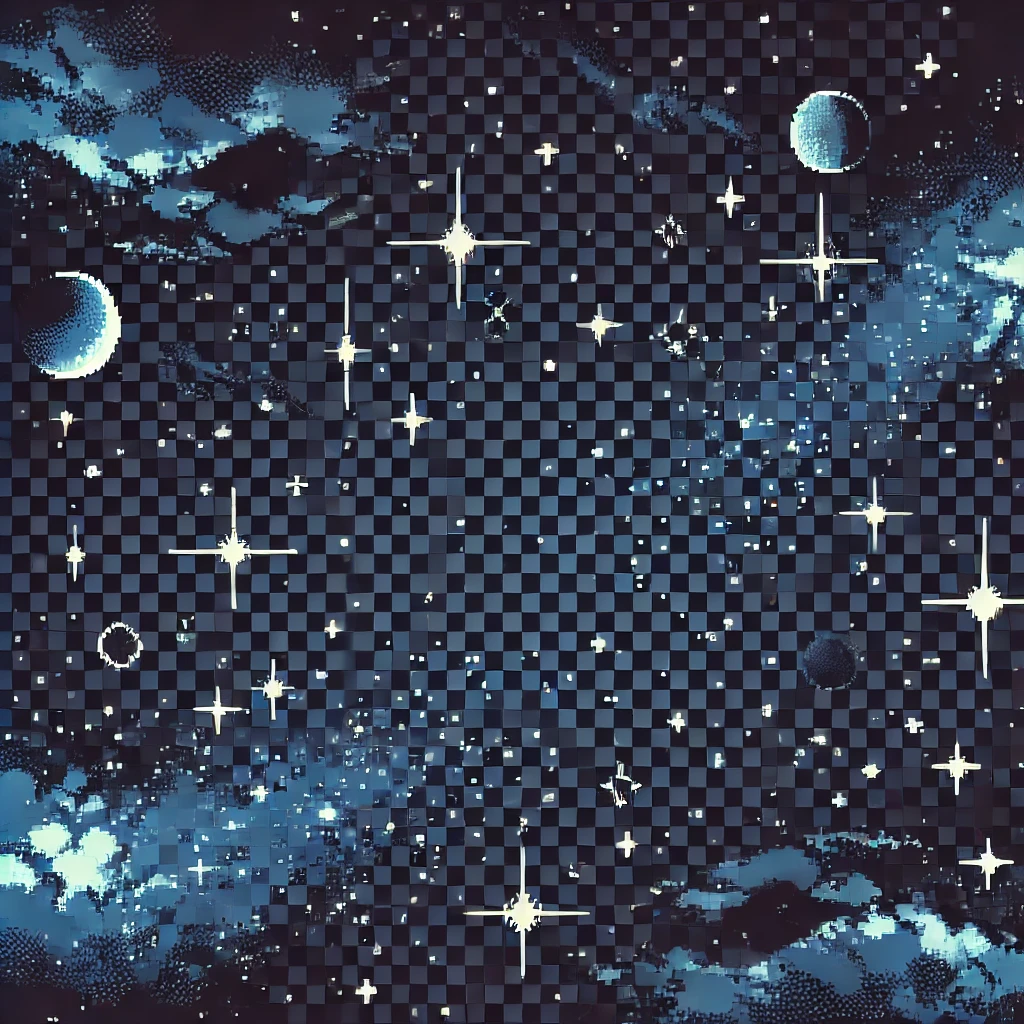
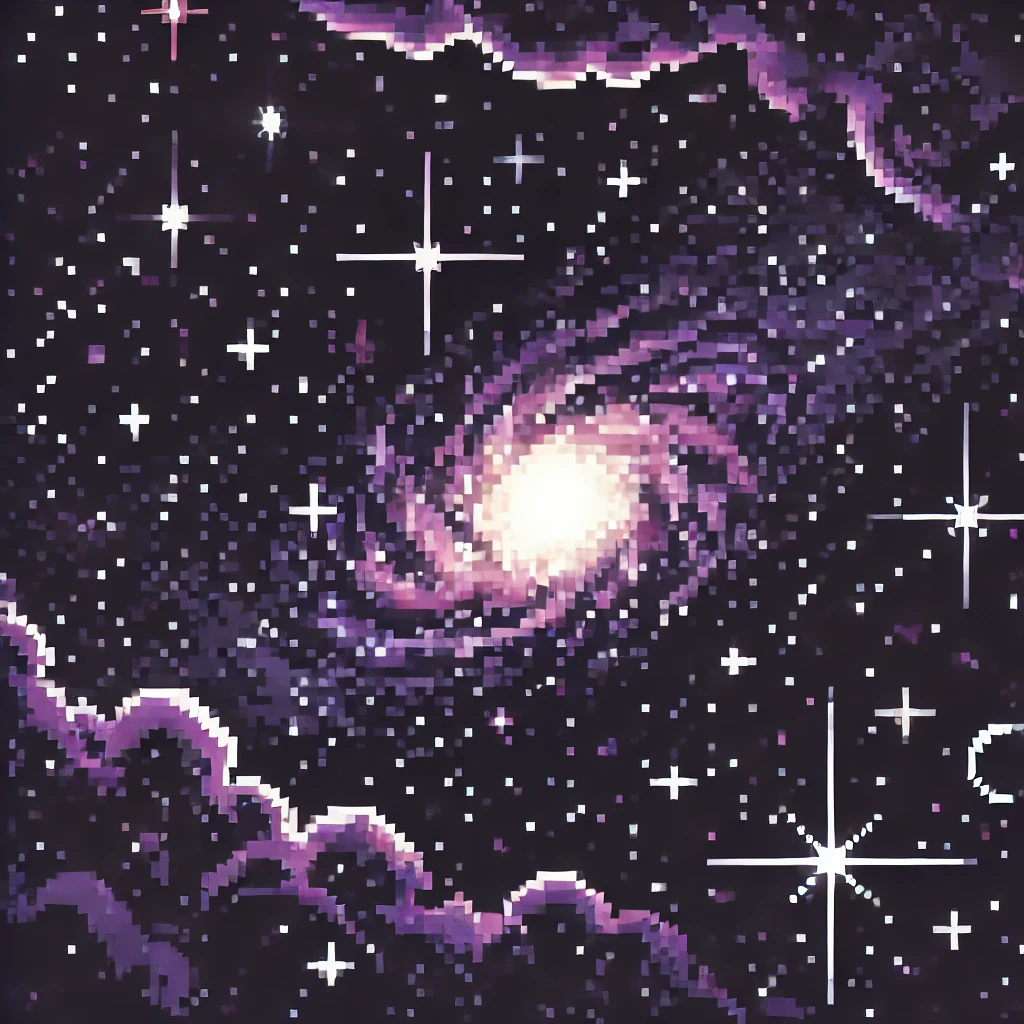
Modificaciones:
Ahora los meteoritos colisionan con el jugador quitan una vida, se resta corazon por pantalla que representa la vida y suena sonido de damage.ogg.
Tambien se cambio el fondo de juego para mejor visual y el de game over por estetica.
Meteorito pequeno se detruye con 1 misil, meteorito mediano con 2 misiles y el meteorito grande con 3 misiles.
El jugado puede moverse con las flechas como con w,a,s,d.

diff --git a/core/src/main/java/com/spacenav2024/screens/GameScreen.java b/core/src/main/java/com/spacenav2024/screens/GameScreen.java
@@ -55,29 +55,26 @@ public class GameScreen implements Screen {
         this.font.getData().setScale(2);
         this.font.setColor(1, 1, 1, 1);
 
-        // Inicializar texturas y jugador
         this.texturaJugador = new Texture("nave.png");
-        this.jugador = new Jugador(texturaJugador, 100, 100);
+        this.jugador = new Jugador(texturaJugador, Gdx.graphics.getWidth() / 2, 20);
 
         this.texturaProyectil = new Texture("proyectil.png");
         this.administradorProyectiles = new AdministradorProyectiles(texturaProyectil);
 
         this.texturaMeteoritoPequeno = new Texture("meteoritosmall.png");
-        this.texturaMeteoritoMediano = new Texture("aGreyMedium4.png");
-        this.texturaMeteoritoGrande = new Texture("aGreyLarge.png");
+        this.texturaMeteoritoMediano = new Texture("meteoritomedium.png");
+        this.texturaMeteoritoGrande = new Texture("meteoritobig.png");
         this.administradorMeteoritos = new AdministradorMeteoritos();
 
         this.corazon = new Texture("corazon.png");
         this.fondo = new Texture("fondo_juego.jpg");
 
-        // Cargar música y sonidos
         this.musicaFondo = Gdx.audio.newMusic(Gdx.files.internal("musica_fondo.mp3"));
         this.sonidoDisparo = Gdx.audio.newSound(Gdx.files.internal("disparo.mp3"));
         this.sonidoPop = Gdx.audio.newSound(Gdx.files.internal("pop-sound.mp3"));
         this.sonidoDamage = Gdx.audio.newSound(Gdx.files.internal("damage.ogg"));
         this.sonidoExplosion = Gdx.audio.newSound(Gdx.files.internal("explosion.ogg"));
 
-        // Configurar la música de fondo
         musicaFondo.setLooping(true);
         musicaFondo.play();
     }
@@ -90,16 +87,13 @@ public class GameScreen implements Screen {
         batch.begin();
         batch.draw(fondo, 0, 0, Gdx.graphics.getWidth(), Gdx.graphics.getHeight());
 
-        // Mostrar puntaje y nivel
         font.draw(batch, "Puntaje: " + puntos, Gdx.graphics.getWidth() - 150, Gdx.graphics.getHeight() - 10);
         font.draw(batch, "Nivel: " + nivel, Gdx.graphics.getWidth() - 150, Gdx.graphics.getHeight() - 40);
 
-        // Dibujar corazones para vidas
         for (int i = 0; i < vidas; i++) {
             batch.draw(corazon, 10 + i * 40, 10);
         }
 
-        // Renderizar jugador, meteoritos y proyectiles
         jugador.render(batch);
         for (Meteorito meteorito : administradorMeteoritos.getMeteoritos()) {
             meteorito.render(batch);
@@ -114,20 +108,29 @@ public class GameScreen implements Screen {
         administradorMeteoritos.update(delta);
         administradorProyectiles.update(delta);
 
-        // Manejar colisiones y actualizar puntos
         puntos += SistemaColisiones.manejarColisiones(jugador, administradorMeteoritos.getMeteoritos(), administradorProyectiles.getProyectiles());
 
-        // Verificar si se ha alcanzado el puntaje para cambiar de nivel
+        if (SistemaColisiones.detectarColisionConMeteorito(jugador, administradorMeteoritos.getMeteoritos())) {
+            vidas--;
+            sonidoDamage.play();
+
+            if (vidas <= 0) {
+                musicaFondo.stop();
+                sonidoExplosion.play();
+                game.setScreen(new GameOverScreen(game));
+                return;
+            }
+        }
+
         if (puntos >= 100) {
             nivel++;
             puntos = 0;
             tiempoGeneracionMeteorito *= 0.9f;
             administradorMeteoritos.getMeteoritos().clear();
             administradorProyectiles.getProyectiles().clear();
-            jugador.setPosition((Gdx.graphics.getWidth() - jugador.getWidth()) / 2, (Gdx.graphics.getHeight() - jugador.getHeight()) / 2);
+            jugador.setPosition(Gdx.graphics.getWidth() / 2 - jugador.getWidth() / 2, 20);
         }
 
-        // Generación aleatoria de meteoritos de diferentes tipos
         tiempoAcumulado += delta;
         if (tiempoAcumulado >= tiempoGeneracionMeteorito) {
             int meteoritosGenerados = MathUtils.random(1, nivel);
@@ -135,9 +138,8 @@ public class GameScreen implements Screen {
                 float xAleatorio = MathUtils.random(0, Gdx.graphics.getWidth() - texturaMeteoritoPequeno.getWidth());
                 float velocidadAleatoria = 100 + MathUtils.random(0, nivel * 20);
 
-                // Generar un tipo aleatorio de meteorito
                 Meteorito meteorito;
-                int tipoMeteorito = MathUtils.random(0, 2);  // 0: pequeño, 1: mediano, 2: grande
+                int tipoMeteorito = MathUtils.random(0, 2);
                 if (tipoMeteorito == 0) {
                     meteorito = new MeteoritoPequeno(texturaMeteoritoPequeno, xAleatorio, Gdx.graphics.getHeight(), velocidadAleatoria);
                 } else if (tipoMeteorito == 1) {
@@ -151,7 +153,6 @@ public class GameScreen implements Screen {
             tiempoAcumulado = 0;
         }
 
-        // Control de disparo con cooldown
         tiempoDisparo += delta;
         if (Gdx.input.isKeyPressed(Input.Keys.SPACE) && tiempoDisparo >= cooldownDisparo) {
             administradorProyectiles.disparar(jugador.getX() + jugador.getWidth() / 2, jugador.getY() + jugador.getHeight());

diff --git a/core/src/main/java/com/spacenav2024/utils/SistemaColisiones.java b/core/src/main/java/com/spacenav2024/utils/SistemaColisiones.java
@@ -6,22 +6,50 @@ import com.spacenav2024.entities.Meteorito;
 import com.spacenav2024.entities.Proyectil;
 
 public class SistemaColisiones {
-    public static int manejarColisiones(Jugador jugador, Array<Meteorito> meteoritos, Array<Proyectil> proyectiles) {
-        int puntosGanados = 0;
 
-        for (int i = proyectiles.size - 1; i >= 0; i--) {
-            Proyectil proyectil = proyectiles.get(i);
-            for (int j = meteoritos.size - 1; j >= 0; j--) {
-                Meteorito meteorito = meteoritos.get(j);
+    /**
+     * Detecta colisiones entre el jugador y la lista de meteoritos.
+     * 
+     * @param jugador El jugador.
+     * @param meteoritos La lista de meteoritos en pantalla.
+     * @return true si ocurre una colisión entre el jugador y algún meteorito, de lo contrario false.
+     */
+    public static boolean detectarColisionConMeteorito(Jugador jugador, Array<Meteorito> meteoritos) {
+        for (Meteorito meteorito : meteoritos) {
+            if (jugador.getRectangulo().overlaps(meteorito.getRectangulo())) {
+                meteoritos.removeValue(meteorito, true); // Remover el meteorito tras la colisión
+                return true; // Colisión detectada
+            }
+        }
+        return false; // No hubo colisión
+    }
+
+    /**
+     * Maneja colisiones entre proyectiles y meteoritos, otorgando puntos por cada meteorito destruido.
+     * 
+     * @param jugador El jugador.
+     * @param meteoritos La lista de meteoritos en pantalla.
+     * @param proyectiles La lista de proyectiles en pantalla.
+     * @return La cantidad de puntos obtenidos por destruir meteoritos.
+     */
+    public static int manejarColisiones(Jugador jugador, Array<Meteorito> meteoritos, Array<Proyectil> proyectiles) {
+        int puntos = 0;
+
+        // Colisiones entre proyectiles y meteoritos
+        for (Proyectil proyectil : proyectiles) {
+            for (Meteorito meteorito : meteoritos) {
                 if (proyectil.getRectangulo().overlaps(meteorito.getRectangulo())) {
-                    proyectiles.removeIndex(i);
-                    meteoritos.removeIndex(j);
-                    puntosGanados += 10;  // Sumar puntos por cada colisión
+                    meteorito.recibirImpacto(); // Reducir vida del meteorito
+                    proyectiles.removeValue(proyectil, true); // Eliminar proyectil tras colisión
+                    if (meteorito.estaDestruido()) {
+                        meteoritos.removeValue(meteorito, true); // Eliminar meteorito si está destruido
+                        puntos += 10; // Sumar puntos por meteorito destruido
+                    }
                     break;
                 }
             }
         }
 
-        return puntosGanados;
+        return puntos;
     }
 }

diff --git a/core/src/main/java/com/spacenav2024/entities/Jugador.java b/core/src/main/java/com/spacenav2024/entities/Jugador.java
@@ -1,11 +1,13 @@
 package com.spacenav2024.entities;
 
+import com.badlogic.gdx.Gdx;
 import com.badlogic.gdx.graphics.Texture;
 import com.badlogic.gdx.graphics.g2d.SpriteBatch;
 import com.badlogic.gdx.math.Rectangle;
 
 public class Jugador extends Entidad {
     private int salud;
+    private float velocidad = 200;  // Velocidad de movimiento en píxeles por segundo
 
     public Jugador(Texture texture, float x, float y) {
         super(texture, x, y);
@@ -20,7 +22,25 @@ public class Jugador extends Entidad {
 
     @Override
     public void update(float delta) {
-        // Aquí podrías agregar lógica de movimiento o controles del jugador si es necesario
+        // Controles de movimiento para teclas WASD y flechas
+        if (Gdx.input.isKeyPressed(com.badlogic.gdx.Input.Keys.W) || Gdx.input.isKeyPressed(com.badlogic.gdx.Input.Keys.UP)) {
+            y += velocidad * delta;  // Mover hacia arriba
+        }
+        if (Gdx.input.isKeyPressed(com.badlogic.gdx.Input.Keys.S) || Gdx.input.isKeyPressed(com.badlogic.gdx.Input.Keys.DOWN)) {
+            y -= velocidad * delta;  // Mover hacia abajo
+        }
+        if (Gdx.input.isKeyPressed(com.badlogic.gdx.Input.Keys.A) || Gdx.input.isKeyPressed(com.badlogic.gdx.Input.Keys.LEFT)) {
+            x -= velocidad * delta;  // Mover hacia la izquierda
+        }
+        if (Gdx.input.isKeyPressed(com.badlogic.gdx.Input.Keys.D) || Gdx.input.isKeyPressed(com.badlogic.gdx.Input.Keys.RIGHT)) {
+            x += velocidad * delta;  // Mover hacia la derecha
+        }
+
+        // Limitar la nave a los bordes de la pantalla
+        if (x < 0) x = 0;
+        if (x > Gdx.graphics.getWidth() - texture.getWidth()) x = Gdx.graphics.getWidth() - texture.getWidth();
+        if (y < 0) y = 0;
+        if (y > Gdx.graphics.getHeight() - texture.getHeight()) y = Gdx.graphics.getHeight() - texture.getHeight();
     }
 
     @Override
@@ -45,6 +65,14 @@ public class Jugador extends Entidad {
 
     public Rectangle getRectangulo() {
         return new Rectangle(x, y, texture.getWidth(), texture.getHeight());
+    }
+
+    public void reiniciarSalud() {
+        throw new UnsupportedOperationException("Not supported yet."); // Generated from nbfs://nbhost/SystemFileSystem/Templates/Classes/Code/GeneratedMethodBody
+    }
+
+    public void reiniciarEstado() {
+        throw new UnsupportedOperationException("Not supported yet."); // Generated from nbfs://nbhost/SystemFileSystem/Templates/Classes/Code/GeneratedMethodBody
     }
 }
 

diff --git a/core/src/main/java/com/spacenav2024/screens/GameOverScreen.java b/core/src/main/java/com/spacenav2024/screens/GameOverScreen.java
@@ -6,6 +6,7 @@ import com.badlogic.gdx.Screen;
 import com.badlogic.gdx.graphics.GL20;
 import com.badlogic.gdx.graphics.Texture;
 import com.badlogic.gdx.graphics.g2d.BitmapFont;
+import com.badlogic.gdx.graphics.g2d.GlyphLayout;
 import com.badlogic.gdx.graphics.g2d.SpriteBatch;
 import com.badlogic.gdx.audio.Music;
 import com.spacenav2024.MainGame;
@@ -35,8 +36,20 @@ public class GameOverScreen implements Screen {
 
         batch.begin();
         batch.draw(fondo, 0, 0, Gdx.graphics.getWidth(), Gdx.graphics.getHeight());  // Dibujar fondo de Game Over
-        font.draw(batch, "Presiona ENTER para volver a jugar", Gdx.graphics.getWidth() / 2f - 100, Gdx.graphics.getHeight() / 2f - 10);
-        font.draw(batch, "Presiona ESCAPE para salir", Gdx.graphics.getWidth() / 2f - 100, Gdx.graphics.getHeight() / 2f - 40);
+
+        // Crear instancias de GlyphLayout para calcular el ancho del texto
+        GlyphLayout layoutReiniciar = new GlyphLayout(font, "Presiona ENTER para volver a jugar");
+        GlyphLayout layoutSalir = new GlyphLayout(font, "Presiona ESCAPE para salir");
+
+        // Calcular posiciones centradas
+        float xReiniciar = (Gdx.graphics.getWidth() - layoutReiniciar.width) / 2f;
+        float xSalir = (Gdx.graphics.getWidth() - layoutSalir.width) / 2f;
+        float yInstrucciones = Gdx.graphics.getHeight() / 2f - 100;
+
+        font.getData().setScale(1.5f);
+        font.draw(batch, layoutReiniciar, xReiniciar, yInstrucciones);
+        font.draw(batch, layoutSalir, xSalir, yInstrucciones - 40);
+
         batch.end();
 
         // Manejar la selección del jugador
@@ -56,18 +69,9 @@ public class GameOverScreen implements Screen {
         musicaGameOver.dispose();
     }
 
-    @Override
-    public void show() {}
-
-    @Override
-    public void resize(int width, int height) {}
-
-    @Override
-    public void pause() {}
-
-    @Override
-    public void resume() {}
-
-    @Override
-    public void hide() {}
+    @Override public void show() {}
+    @Override public void resize(int width, int height) {}
+    @Override public void pause() {}
+    @Override public void resume() {}
+    @Override public void hide() {}
 }

diff --git a/core/src/main/java/com/spacenav2024/entities/MeteoritoGrande.java b/core/src/main/java/com/spacenav2024/entities/MeteoritoGrande.java
@@ -5,5 +5,6 @@ import com.badlogic.gdx.graphics.Texture;
 public class MeteoritoGrande extends Meteorito {
     public MeteoritoGrande(Texture texture, float x, float y, float velocidad) {
         super(texture, x, y, velocidad, 3);  // 3 impactos para destruir
+        texture.setFilter(Texture.TextureFilter.Linear, Texture.TextureFilter.Linear);
     }
 }
